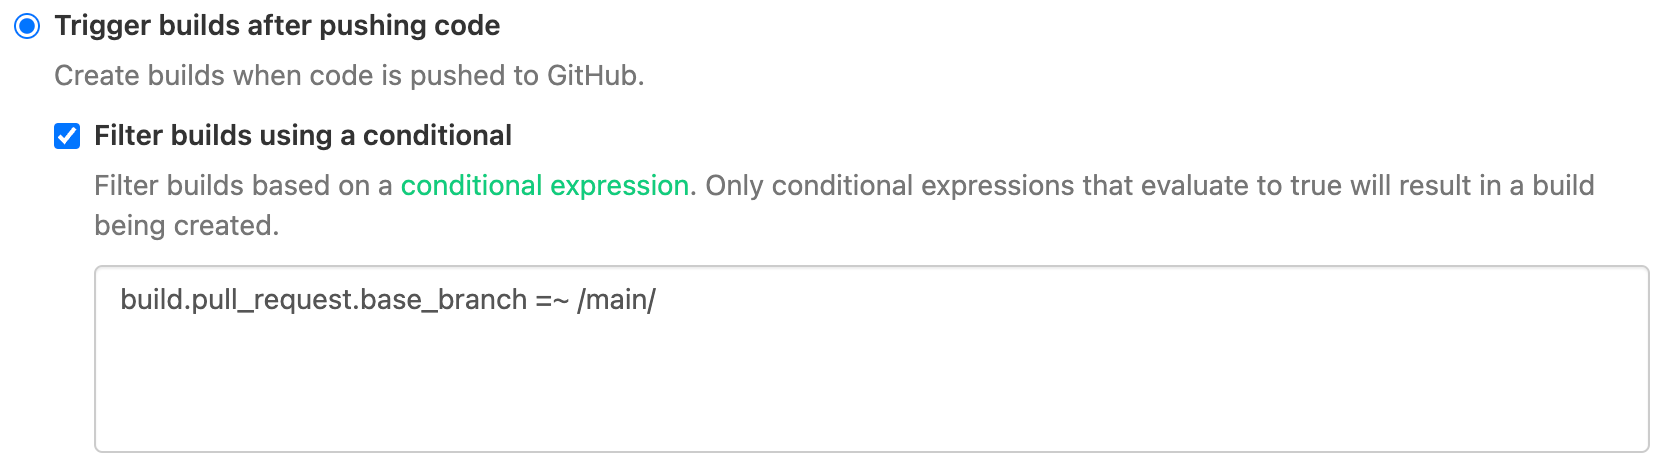
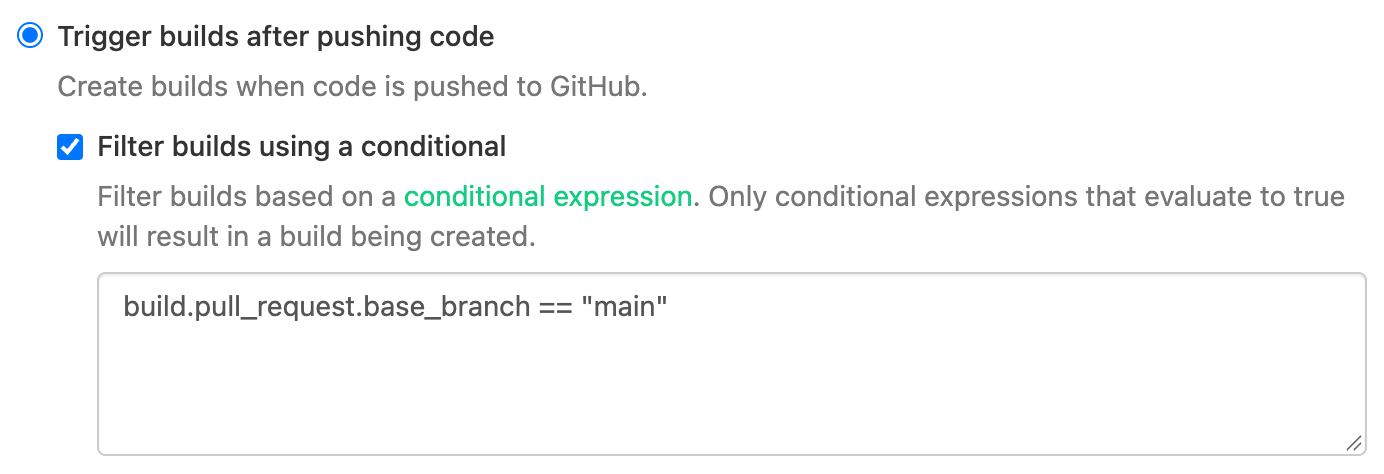
Refresh pipeline conditional screenshots
Capture the native conditional controls without interface edits, document replay, and include the exact-main expression as text.

Amp-Thread-ID: https://ampcode.com/threads/T-82442ed7-d7c2-4a77-bc85-9b37cb23f52a

diff --git a/images/docs/pipelines/configure/conditionals/conditionals.md b/images/docs/pipelines/configure/conditionals/conditionals.md
@@ -1,0 +1,12 @@
+# Pipeline conditional filtering
+
+Recreate the example for [Conditionals in pipelines](/docs/pipelines/configure/conditionals#conditionals-in-pipelines), following the [shared screenshot guidance](../../../../../styleguides/working-with-docs-site.md#screenshots).
+
+Use an existing GitHub-linked pipeline in a development or dedicated integration-test organization. You need permission to manage the pipeline and a fixture with **Trigger builds after pushing code** already selected. Do not save settings, deliver webhooks or create builds.
+
+1. Use Chrome for Testing 158 on macOS 27.2 with a 1150 × 1450 CSS-pixel viewport, 100% zoom, and DPR 2. Start in macOS Light with Chrome's `prefers-color-scheme` set to `light`. Verify native Light rendering, wait for `document.fonts.ready`, and verify the UI uses `.SF NS`.
+1. Open pipeline **Settings → GitHub**. In **GitHub Settings**, note the saved trigger and conditional values. Under **Trigger builds after pushing code**, select **Filter builds using a conditional**, then enter `build.pull_request.base_branch == "main"` without saving.
+1. Move the pointer outside the crop and clear input focus by clicking blank page space. At scroll (0, 1297), crop the viewport from (341, 127), 692 × 237 CSS pixels. If the layout changes, measure from the complete push-trigger choice and help through the bottom of the conditional textarea, with about 8 CSS pixels of surrounding space. Exclude other setting groups by cropping only. Do not edit the page.
+1. Convert the crop to sRGB without resampling and save `conditionals.png`. Leave without saving and reopen **GitHub** to compare the saved trigger and conditional fields with their starting values. Repeat from fresh navigation in macOS Dark with Chrome's `prefers-color-scheme` set to `dark`. Verify native Dark rendering, save `conditionals-dark.png`, and repeat the saved-state check.
+
+Accept two sRGB PNGs at 1384 × 474 pixels, displayed at up to 692 × 237 CSS pixels. Both show the full selected push trigger, checked conditional, help and exact expression, with identical geometry. No recoloring, callouts, browser chrome, clipping or identity.

diff --git a/pages/pipelines/configure/conditionals.md b/pages/pipelines/configure/conditionals.md
@@ -6,9 +6,11 @@ You can define conditionals at the step level in your `pipeline.yml` or at the p
 
 ## Conditionals in pipelines
 
-To filter incoming webhooks before a build is created, use **Filter builds using a conditional** on the pipeline's **Settings** page for your repository provider. Builds are created only when the expression evaluates to `true`. Unlike step-level conditions, this setting controls build creation rather than which steps run. For example, to run only when a pull request is targeting the main branch:
+To filter incoming webhooks before a build is created, use **Filter builds using a conditional** on the pipeline's **Settings** page for your repository provider. Builds are created only when the expression evaluates to `true`. Unlike step-level conditions, this setting controls build creation rather than which steps run.
 
-<%= image "conditionals.png", width: 864, height: 298, alt: "Conditional Filtering settings" %>
+For example, enter `build.pull_request.base_branch == "main"` to create builds only for pull requests targeting the `main` branch:
+
+<%= image "conditionals.png", width: 1384/2, height: 474/2, alt: "GitHub settings with a conditional that filters builds to pull requests targeting main" %>
 
 Pipeline-level build conditionals are evaluated before any other build trigger settings. If both a conditional and a branch filter are present, both filters must pass for a build to be created – first the pipeline-level limiting filter and then the conditional filter.
 
